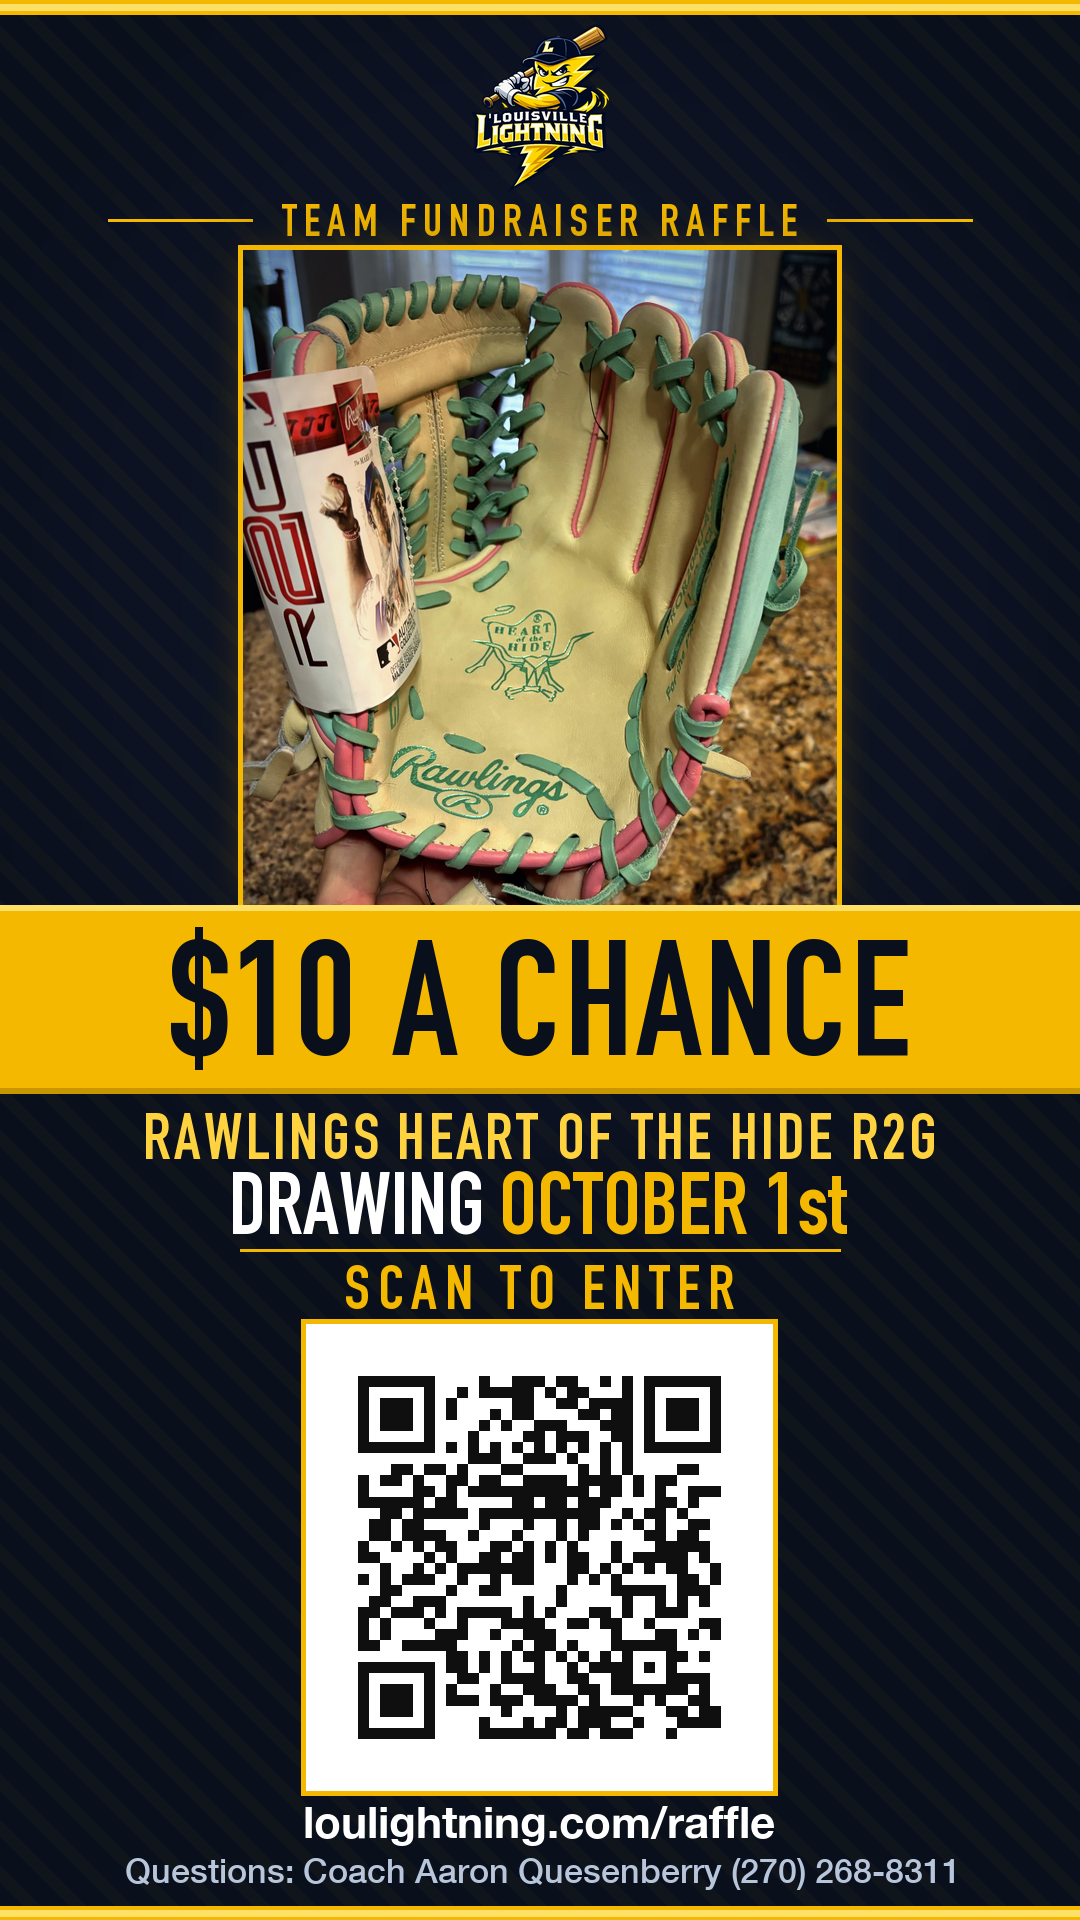
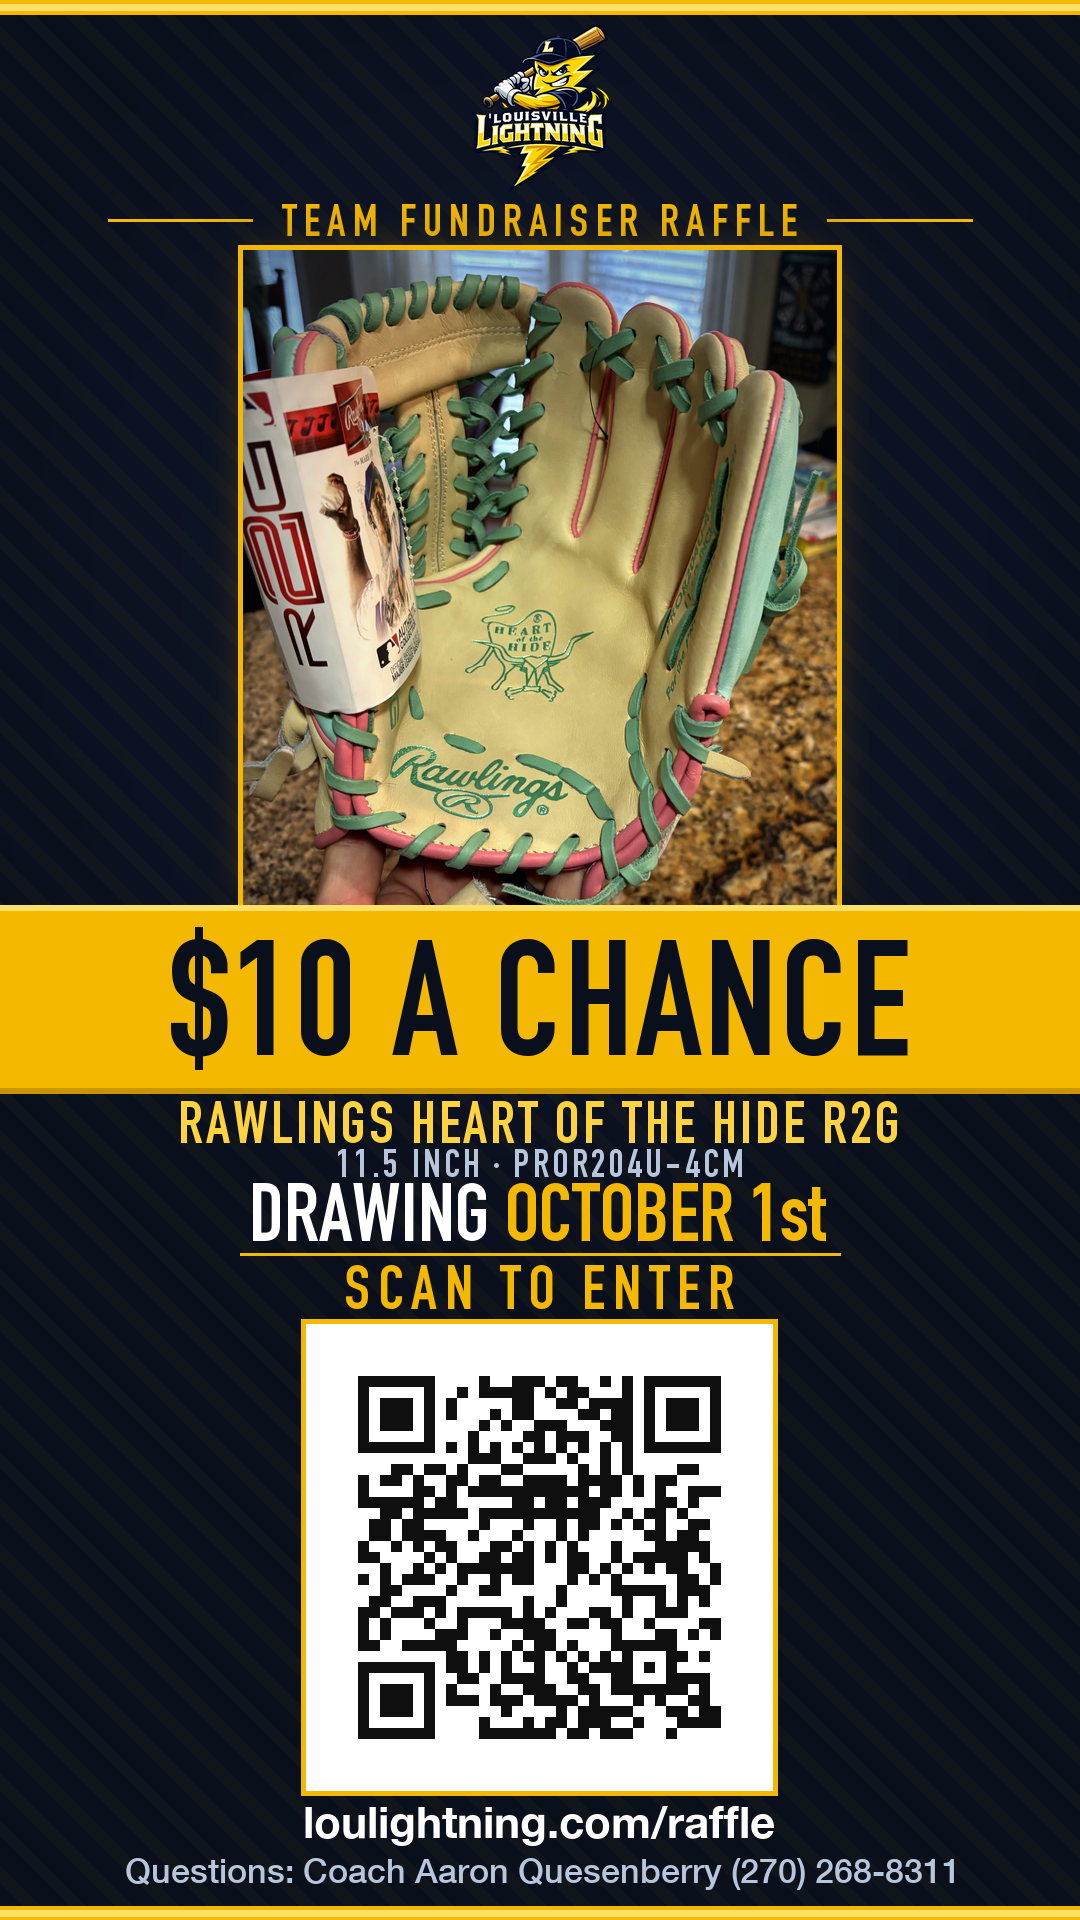
Set the glove spec: 11.5 inch, PROR204U-4CM
Read off the thumb stamp, which the hang tag covered in both of the
original photos. PRIZE.size was deliberately empty until now and the
gallery line was gated on it, so this fills the last blank rather than
changing any behaviour.

Every surface the spec lives on, in one pass: the contract, the prize
gallery (size and model, still gated so an unset value renders nothing),
the flyer generator, the regenerated flyer PNG, and the draw title in
the database.

retailUsd stays 0. Nobody has confirmed a real number, and printing a
price on a raffle is a value claim made to people handing over money.

Claude-Session: https://claude.ai/code/session_01QGTjtxHvA5jafeBdiaXAyj

Changed region(s): [[0.1222, 0.5625, 0.8556, 0.6562]]

diff --git a/src/components/raffle/PrizeGallery.tsx b/src/components/raffle/PrizeGallery.tsx
@@ -12,13 +12,15 @@ const fadeUp = {
 /**
  * The two prize photos plus the spec line underneath.
  *
- * size and retailUsd are widened off the `as const` contract on purpose:
- * both are empty today (Taylor has not read the tag yet) and the line for
- * each must simply not exist until someone fills the value in. Widening
- * keeps the guard a real runtime check rather than a literal-type no-op.
+ * size, model and retailUsd are widened off the `as const` contract on
+ * purpose: each line must simply not exist until someone fills the value in.
+ * Widening keeps the guard a real runtime check rather than a literal-type
+ * no-op. size and model are now set (read off the thumb stamp 2026-08-25);
+ * retailUsd is still 0 because no price has been confirmed.
  */
 export default function PrizeGallery() {
   const size: string = PRIZE.size;
+  const model: string = PRIZE.model;
   const retailUsd: number = PRIZE.retailUsd;
 
   return (
@@ -66,9 +68,11 @@ export default function PrizeGallery() {
             {PRIZE.colorway}
           </p>
 
-          {size ? (
+          {size || model ? (
             <p className="mt-2 text-white/70 font-accent uppercase tracking-[0.18em] text-sm md:text-base">
-              Size {size}
+              {size ? `Size ${size}` : null}
+              {size && model ? <span className="text-white/30"> &middot; </span> : null}
+              {model}
             </p>
           ) : null}
 

diff --git a/src/lib/raffleData.ts b/src/lib/raffleData.ts
@@ -16,10 +16,15 @@ export const DRAW_ID = 'glove-2026-10-01';
 
 export const PRIZE = {
   name: 'Rawlings Heart of the Hide R2G',
-  /** Empty until Taylor reads it off the tag. Rendered only when set. */
-  size: '',
+  /** Read straight off the thumb stamp: PROR204U-4CM, 11 1/2 INCH. */
+  size: '11.5 inch',
+  model: 'PROR204U-4CM',
   colorway: 'Camel / mint green lace / pink trim',
-  /** Rendered as "a $XXX glove" social proof. Empty hides the line. */
+  /**
+   * Rendered as "a $XXX glove" social proof. Still 0 on purpose: nobody has
+   * confirmed a real number, and printing a price on a raffle is a value claim
+   * made to people handing over money. Leave it until Taylor confirms.
+   */
   retailUsd: 0,
   photos: [
     { src: '/assets/raffle/glove-palm.jpg', alt: 'Rawlings Heart of the Hide R2G glove, palm side, mint green lacing and pink trim' },

diff --git a/scripts/build_raffle_flyer.py b/scripts/build_raffle_flyer.py
@@ -74,9 +74,10 @@ PANEL_X, PANEL_Y, PANEL_W = 243, 250, 594
 BAND_TOP, BAND_H = 905, 188
 PANEL_COVER = 100          # strip of the photo panel that the band hides
 GLOVE_PAD = 24             # minimum clear canvas px around the glove
-PRIZE_TOP, PRIZE_H = 1113, 46
-DRAW_TOP, DRAW_H = 1171, 64
-HAIRLINE_TOP = 1249
+PRIZE_TOP, PRIZE_H = 1101, 42
+SPEC_TOP, SPEC_H = 1149, 28   # size + model, read off the thumb stamp
+DRAW_TOP, DRAW_H = 1183, 60
+HAIRLINE_TOP = 1253
 SCAN_TOP, SCAN_H = 1265, 44
 QR_TOP = 1319
 URL_TOP, URL_H = 1806, 40
@@ -105,6 +106,7 @@ GLOVE_BOX = (55, 380, 1240, 1700)
 @dataclass(frozen=True)
 class RaffleFacts:
     prize_name: str
+    prize_spec: str
     price_label: str
     draw_date_label: str
     url_full: str
@@ -114,6 +116,12 @@ class RaffleFacts:
     contact_role: str
     contact_name: str
     contact_phone: str
+
+
+def _optional(pattern: str, text: str) -> str:
+    """Like _grab but a missing or empty value is legal and yields ''."""
+    m = re.search(pattern, text)
+    return m.group(1).strip() if m else ""
 
 
 def _grab(pattern: str, text: str, what: str) -> str:
@@ -150,6 +158,12 @@ def read_facts() -> RaffleFacts:
 
     return RaffleFacts(
         prize_name=_grab(r"name:\s*'([^']+)'", prize, "PRIZE.name"),
+        prize_spec=" \u00b7 ".join(
+            part for part in (
+                _optional(r"size:\s*'([^']*)'", prize),
+                _optional(r"model:\s*'([^']*)'", prize),
+            ) if part
+        ),
         price_label=format_usd(cents),
         draw_date_label=_grab(r"export const DRAW_DATE_LABEL\s*=\s*'([^']+)'", src,
                               "DRAW_DATE_LABEL"),
@@ -437,6 +451,13 @@ def build() -> tuple[RaffleFacts, list[str], tuple[float, float, float, float]]:
                      max_w=840, max_h=PRIZE_H, tracking_ratio=0.05, start=90)
     place(canvas, prize, "prize-name", center_x=W // 2, top=PRIZE_TOP)
 
+    # Size and model, straight off the thumb stamp. Skipped entirely when the
+    # contract has neither, so an unknown spec leaves no gap and no empty line.
+    if facts.prize_spec:
+        spec = fit_line(s(facts.prize_spec.upper()), DISPLAY, MUTED,
+                        max_w=760, max_h=SPEC_H, tracking_ratio=0.08, start=60)
+        place(canvas, spec, "prize-spec", center_x=W // 2, top=SPEC_TOP)
+
     word = fit_line(s("DRAWING"), DISPLAY, WHITE, max_w=340, max_h=DRAW_H, start=110)
     date = fit_line(s(poster_case(facts.draw_date_label)), DISPLAY, GOLD_500,
                     max_w=520, max_h=DRAW_H, start=110)
@@ -565,6 +586,7 @@ def verify(facts: RaffleFacts, strings: list[str],
     print("COPY, ALL OF IT PARSED OUT OF src/lib/raffleData.ts")
     print(f"  price       {facts.price_label} A CHANCE")
     print(f"  prize       {facts.prize_name}")
+    print(f"  spec        {facts.prize_spec or '(none set)'}")
     print(f"  drawing     {poster_case(facts.draw_date_label)}")
     print(f"  url         {facts.url_display}   ({facts.url_full})")
     print(f"  contact     {facts.contact_role} {facts.contact_name} {facts.contact_phone}")
